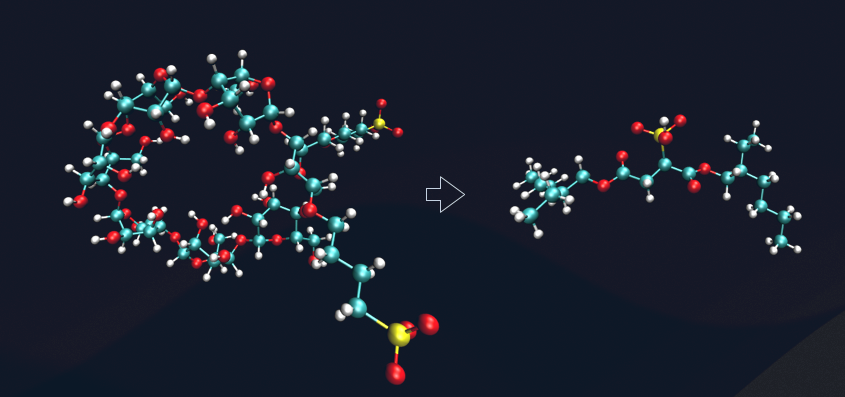
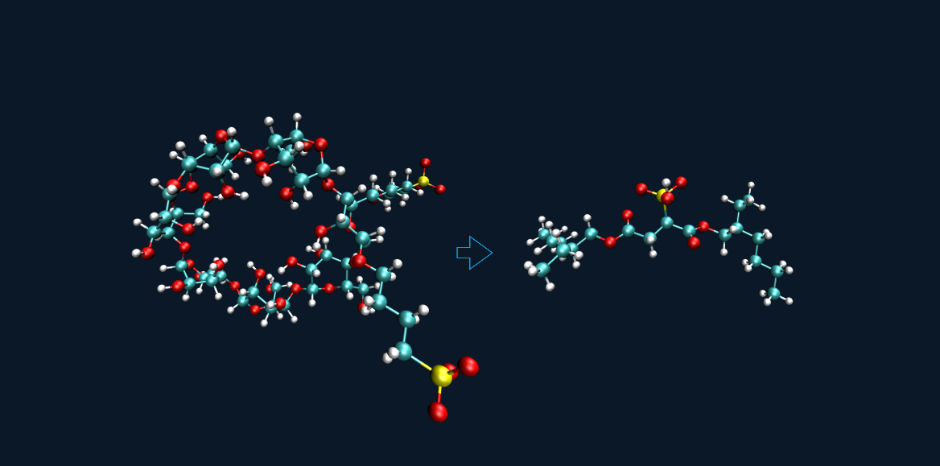
Corrected images and extra space in 08 and 09 card

Changed region(s): [[0.0615, 0.1209, 0.5231, 0.9673], [0.4923, 0.272, 0.9538, 0.665], [0.5846, 0.6045, 0.6154, 0.6348]]

diff --git a/index.html b/index.html
@@ -191,6 +191,10 @@ button.cap:focus-visible{outline:2px solid var(--bright);outline-offset:-2px}
 @keyframes csR{from{transform:translateY(16px);opacity:0}to{transform:none;opacity:1}}
 .cs-close{position:absolute;top:15px;right:15px;z-index:4;width:38px;height:38px;border-radius:50%;border:1px solid var(--bdr);background:rgba(7,16,31,.7);color:var(--txt);font-size:.95rem;cursor:pointer;display:grid;place-items:center;transition:all .16s}
 .cs-close:hover{background:#fff;color:var(--bg0);border-color:#fff}
+.cs-max{position:absolute;top:15px;right:61px;z-index:4;width:38px;height:38px;border-radius:50%;border:1px solid var(--bdr);background:rgba(7,16,31,.7);color:var(--txt);font-size:.9rem;cursor:pointer;display:grid;place-items:center;transition:all .16s}
+.cs-max:hover{background:#fff;color:var(--bg0);border-color:#fff}
+.cs-overlay.max{padding:0}
+.cs-overlay.max .cs-modal{max-width:none;width:100%;min-height:100vh;border-radius:0;border:none}
 .cs-hero{display:grid;grid-template-columns:1fr 1fr;border-bottom:1px solid var(--bdr)}
 .cs-figure{position:relative;min-height:320px;background:radial-gradient(120% 120% at 70% 0%,rgba(0,165,234,.16),transparent 60%),var(--bg2);border-right:1px solid var(--bdr);overflow:hidden}
 .cs-figure image-slot{position:absolute;inset:0;width:100%;height:100%}
@@ -712,6 +716,7 @@ button.cap:focus-visible{outline:2px solid var(--bright);outline-offset:-2px}
 
 <div class="cs-overlay" id="cs-overlay" role="dialog" aria-modal="true">
   <div class="cs-modal">
+    <button type="button" class="cs-max" id="cs-max" aria-label="Maximize"><i class="bi bi-arrows-fullscreen"></i></button>
     <button type="button" class="cs-close" id="cs-close" aria-label="Close"><i class="bi bi-x-lg"></i></button>
     <div id="cs-mount"></div>
   </div>
@@ -752,8 +757,8 @@ const CAPS = [
   ['bi-graph-up-arrow','IP-Proven Discovery','AI/ML discovery pipelines built to generate defensible IP — multiple patent filings across drugs, forms, and methods.','cs-4',1],
   ['bi-stars','EU Grants &amp; Project Leadership','Writing, coordinating and leading EU-funded scientific and innovation projects — from proposal through delivery.','cs-9',1],
 ];
-document.getElementById('caps').innerHTML = CAPS.map(([ic,t,b,cid,mk],i)=>`
-  <button type="button" class="cap fu${mk?' cap-mk':''}" data-case="${cid}">
+document.getElementById('caps').innerHTML = CAPS.map(([ic,t,b,cid],i)=>`
+  <button type="button" class="cap fu" data-case="${cid}">
     <div class="cap-n">${String(i+1).padStart(2,'0')}</div>
     <div class="cap-ico"><i class="bi ${ic}"></i></div>
     <div class="cap-tit">${t}</div>
@@ -835,7 +840,9 @@ document.querySelectorAll('.fu').forEach(el=>obs.observe(el));
   var mount=document.getElementById('cs-mount');
   var current=null;
   function open(id){var a=document.getElementById(id);if(!a)return;current=a;mount.appendChild(a);overlay.classList.add('open');document.body.style.overflow='hidden';overlay.scrollTop=0;}
-  function close(){if(current){store.appendChild(current);current=null;}overlay.classList.remove('open');document.body.style.overflow='';}
+  function close(){if(current){store.appendChild(current);current=null;}overlay.classList.remove('open','max');document.body.style.overflow='';}
+  var maxBtn=document.getElementById('cs-max');
+  maxBtn.addEventListener('click',function(){overlay.classList.toggle('max');maxBtn.innerHTML=overlay.classList.contains('max')?'<i class="bi bi-fullscreen-exit"></i>':'<i class="bi bi-arrows-fullscreen"></i>';});
   document.querySelectorAll('.cap[data-case]').forEach(function(b){b.addEventListener('click',function(){open(b.getAttribute('data-case'));});});
   document.getElementById('cs-close').addEventListener('click',close);
   overlay.addEventListener('click',function(e){if(e.target===overlay)close();});
